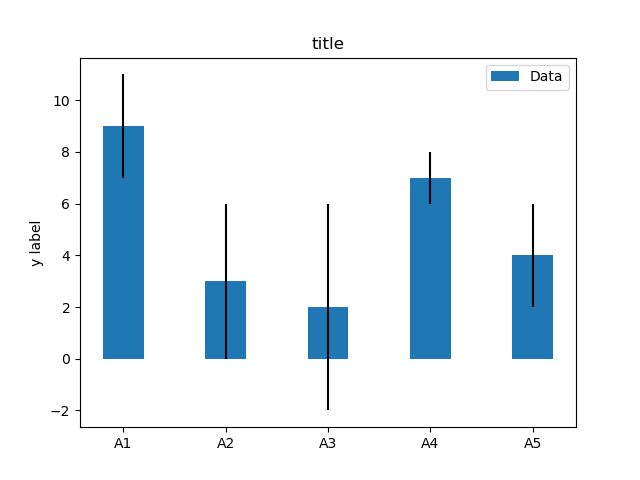
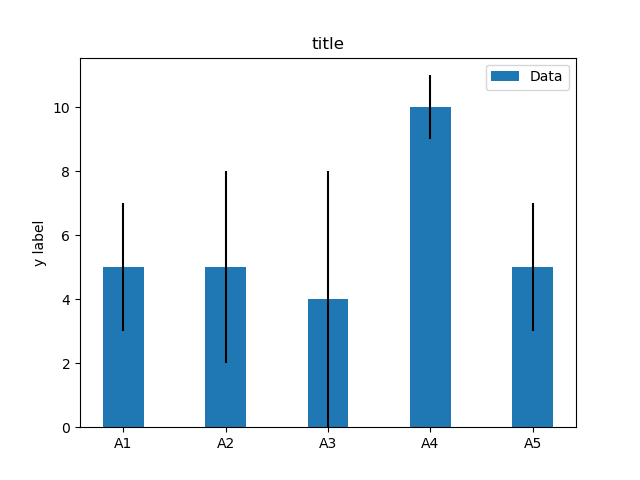
first commit

diff --git a/example.py b/example.py
@@ -2,7 +2,7 @@ import numpy as np
 import matplotlib.pyplot as plt
 
 labels = ['A1', 'A2', 'A3', 'A4', 'A5']
-m_means = [9,3,2,7,4]
+m_means = [5,5,4,10,5]
 m_std = [2, 3, 4, 1, 2]
 width = 0.40       # the width of the bars
 

diff --git a/README.md b/README.md
@@ -1,4 +1,4 @@
-# Matplotlib no 156 
+# Matplotlib no 157 
 
 python example
 
